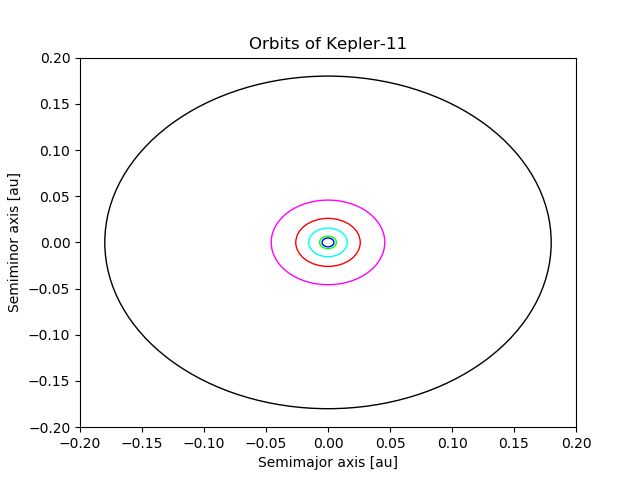
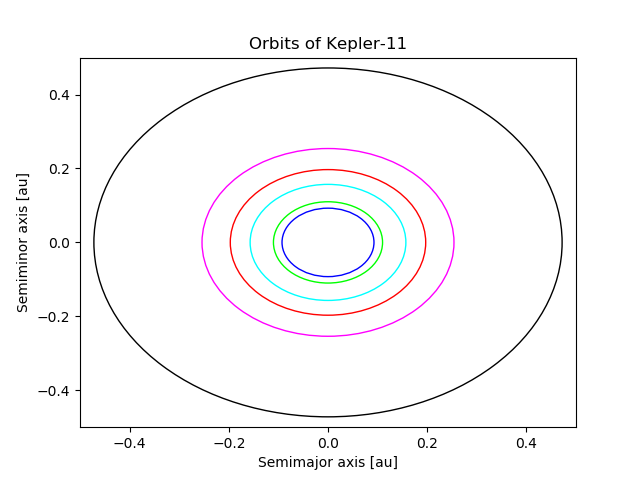
finished question 3

diff --git a/ps02/ps02.tex b/ps02/ps02.tex
@@ -14,6 +14,7 @@
 \renewcommand{\thesubsubsection}{\thesubsection.\roman{subsubsection}}
 
 \newtheorem{theorem}{Theorem}
+\DeclareSIUnit\year{yr}
 
 \newcommand{\unit}[1]{\bm{\hat{#1}}}
 \newcommand{\iprod}[2]{\left\langle #1, #2 \right\rangle}
@@ -86,7 +87,7 @@ The new altitudes are
 
 The generalized formula of Kepler's third law with units of astronomical units and days is
 \begin{equation}
-    \left(\frac{P}{365}\right)^2 = a^3 \implies a = \left(\frac{P}{365}\right)^{\frac{3}{2}}
+    \left(\frac{P}{365}\right)^2 = a^3 \implies a = \left(\frac{P}{365}\right)^{\frac{2}{3}}
 \end{equation}
 From there, we can use the equation to determine the periastron and apastron to be, respectively,
 \begin{align}
@@ -98,31 +99,31 @@ From there, we can use the equation to determine the periastron and apastron to 
         \hline
         Planet & Semimajor Axis [\si{\astronomicalunit}] & Periastron Distance [\si{\astronomicalunit}] & Apastron Distance [\si{\astronomicalunit}] \\
         \hline
-        b & \num{4.74e-3} & \num{4.53e-3} & \num{4.95e-3} \\
-        c & \num{6.74e-3} & \num{6.56e-3} & \num{6.91e-3} \\
-        d & \num{1.55e-2} & \num{1.54e-2} & \num{1.56e-2} \\
-        e & \num{2.60e-2} & \num{2.28e-2} & \num{2.91e-2} \\
-        f & \num{4.58e-2} & \num{4.52e-2} & \num{4.63e-2} \\
-        g & \num{0.18} & \num{0.16} & \num{0.21} \\
+        b & \num{9.27e-2} & \num{8.85e-2} & \num{9.69e-2} \\
+        c & \num{1.10e-1} & \num{1.06e-1} & \num{1.11e-1} \\
+        d & \num{1.57e-1} & \num{1.56e-1} & \num{1.58e-1} \\
+        e & \num{1.97e-1} & \num{1.95e-1} & \num{2.00e-1} \\
+        f & \num{2.54e-1} & \num{2.51e-1} & \num{2.57e-1} \\
+        g & \num{4.72e-1} & \num{4.01e-1} & \num{5.43e-1} \\
         \hline
     \end{tabular}
 \end{center}
 
 \subsection{}
 
-The two closest planets are planets b and c, with a closest approach distance of only \SI{1.61e-3}{\astronomicalunit}.
+The two closest planets are planets b and c, with a closest approach distance of only \SI{9.1e-3}{\astronomicalunit}.
 
 \subsection{}
 
 Converting to SI units, our givens are
 \begin{align}
     M_b &= 1.9 \cdot \SI{5.9722e+24}{\kilogram} = \SI{1.13e+25}{\kilogram} \\
-    M_c &= 2.9 \cdot \SI{5.9722e+25}{\kilogram} = \SI{1.73e+25}{\kilogram} \\
-    r_{bc} &= \frac{\SI{1.61e-3}{\cancel\astronomicalunit}}{1} \cdot \frac{\SI{149597870700}{\meter}}{\SI{1}{\cancel\astronomicalunit}} = \SI{2.41e+8}{\meter}
+    M_c &= 2.9 \cdot \SI{5.9722e+24}{\kilogram} = \SI{1.73e+25}{\kilogram} \\
+    r_{bc} &= \frac{\SI{9.1e-3}{\cancel\astronomicalunit}}{1} \cdot \frac{\SI{149597870700}{\meter}}{\SI{1}{\cancel\astronomicalunit}} = \SI{1.36e+9}{\meter}
 \end{align}
 Then, using Newton's law of universal gravitation,
 \begin{equation}
-    F_{bc} = \frac{G M_b M_c}{r_{bc}^2} = \frac{G (\SI{1.13e+25}{\kilogram}) (\SI{1.73e+25}{\kilogram})}{(\SI{2.41e+8}{\meter})^2} = \SI{2.26e+23}{\newton}
+    F_{bc} = \frac{G M_b M_c}{r_{bc}^2} = \frac{G (\SI{1.13e+25}{\kilogram}) (\SI{1.73e+25}{\kilogram})}{(\SI{1.36e+9}{\meter})^2} = \SI{7.08e+21}{\newton}
 \end{equation}
 
 \subsection{}
@@ -130,15 +131,15 @@ Then, using Newton's law of universal gravitation,
 Our givens are
 \begin{align}
     M_\star &= 0.961 \cdot \SI{1.98847e+30}{\kilogram} = \SI{1.91e+30}{\kilogram}\\
-    r_{b\star} &= \frac{\SI{4.53e-3}{\cancel\astronomicalunit}}{1} \cdot \frac{\SI{149597870700}{\meter}}{\SI{1}{\cancel\astronomicalunit}} = \SI{6.78e+8}{\meter}
+    r_{b\star} &= \frac{\SI{9.69e-2}{\cancel\astronomicalunit}}{1} \cdot \frac{\SI{149597870700}{\meter}}{\SI{1}{\cancel\astronomicalunit}} = \SI{1.45e+10}{\meter}
 \end{align}
 The force between planet b and its sun is
 \begin{equation}
-    F_{b\star} = \frac{G M_B M_\star}{r_{b\star}^2} = \frac{G (\SI{1.13e+25}{\kilogram}) (\SI{1.91e+30}{\kilogram})}{(\SI{6.78e+8}{\meter})^2} = \SI{3.15e+27}{\newton}
+    F_{b\star} = \frac{G M_B M_\star}{r_{b\star}^2} = \frac{G (\SI{1.13e+25}{\kilogram}) (\SI{1.91e+30}{\kilogram})}{(\SI{1.45e+10}{\meter})^2} = \SI{6.89e+24}{\newton}
 \end{equation}
 Meaning that the ratio between the closest approach and the solar attraction is
 \begin{equation}
-    \frac{F_{bc}}{F_{b\star}} = \num{7.18e-5}
+    \frac{F_{bc}}{F_{b\star}} = \num{1.03e-3}
 \end{equation}
 
 \subsection{}
@@ -148,16 +149,66 @@ Equating \autoref{eq:periastron} and \autoref{eq:apastron},
 \begin{align}
     a_b (1 + e_b) &= a_c (1 - e_c) \\
     \Rightarrow e_b &= \frac{a_c}{a_b} (1 - e_c) - 1 \\
-    &= 0.385
+    &= 0.139
 \end{align}
-So the eccentricity increases by \SI{755}{\percent}.
+So the eccentricity increases by \SI{208}{\percent}.
 
 \subsection{}
 
 \begin{center}
-    \includegraphics[width=0.8\textwidth]{q5f.png}
+    \includegraphics[width=0.8\textwidth]{q2f.png}
 \end{center}
 
 \section{Eccentric Comets}
+
+\subsection{}
+
+Using Kepler's third law,
+\begin{equation}
+    P^2 = a^3 \implies a = (\SI{6.45}{\year})^{\frac{2}{3}} = \SI{3.47}{\astronomicalunit}
+\end{equation}
+
+\subsection{}
+
+Using \autoref{eq:periastron} and \autoref{eq:apastron},
+\begin{align}
+    r_p &= a (1 - e) = \SI{1.25}{\astronomicalunit} \\
+    r_p &= a (1 + e) = \SI{5.68}{\astronomicalunit} \\
+\end{align}
+
+\subsection{}
+
+\begin{equation}
+    E_{tot} = \frac{1}{2} \mu v^2 - \frac{G M \mu}{r}
+\end{equation}
+where \(\mu = \frac{M_\odot m_{comet}}{M_\odot + m_{comet}}\) and \(M = M_\odot + m_{comet}\).
+Equating the two expressions,
+\begin{align}
+    E_{tot} = \frac{1}{2} \frac{\cancel{M_\odot m_{comet}}}{M_\odot + m_{comet}} v^2 - \frac{G \cancel{M_\odot m_{comet}}}{r} &= -\frac{G \cancel{M_\odot m_{comet}}}{2a} \\
+    \Rightarrow \frac{1}{2} \frac{v^2}{M_\odot + m_{comet}} &= G \left(\frac{1}{r} - \frac{1}{2a}\right) \\
+    \Rightarrow v &= \sqrt{G (M_\odot + m_{comet}) \left(\frac{2}{r} - \frac{1}{a}\right)}
+\end{align}
+
+\subsection{}
+
+At periapse,
+\begin{equation}
+    v = \sqrt{G (M_\odot + m_{comet}) \left(\frac{2}{r_p} - \frac{1}{a}\right)} = \SI{3.42e+1}{\kilo\meter\per\second}
+\end{equation}
+At apoapse,
+\begin{equation}
+    v = \SI{7.49}{\kilo\meter\per\second}
+\end{equation}
+At semiminor axis, \(b = \sqrt{a^2 (1 - e^2)}\), so \(b = \SI{2.66}{\astronomicalunit}\).
+So, \(v\) is
+\begin{equation}
+    v = \SI{2.03e+1}{\kilo\meter\per\second}
+\end{equation}
+
+\section{Weighing Sagittarius A*}
+
+\subsection{}
+
+
 
 \end{document}

diff --git a/ps02/ps02.py b/ps02/ps02.py
@@ -4,12 +4,12 @@ from matplotlib.patches import Ellipse
 from math import sqrt
 
 smajor_axes = [
-    4.74e-3,
-    6.74e-3,
-    1.55e-2,
-    2.60e-2,
-    4.58e-2,
-    0.18
+    9.27e-2,
+    1.10e-1,
+    1.57e-1,
+    1.97e-1,
+    2.54e-1,
+    4.72e-1
 ]
 
 eccentricities = [
@@ -36,10 +36,8 @@ plt.title("Orbits of Kepler-11")
 ax = plt.subplot()
 for i, j, k in zip(smajor_axes, sminor_axes, colors):
     ax.add_artist(Ellipse((0, 0), 2*i, 2*j, color=k,fill=False))
-plt.xlim((-0.2, 0.2))
-plt.ylim((-0.2, 0.2))
+plt.xlim((-0.5, 0.5))
+plt.ylim((-0.5, 0.5))
 plt.xlabel("Semimajor axis [au]")
 plt.ylabel("Semiminor axis [au]")
 plt.show()
-
-print(sminor_axes)
